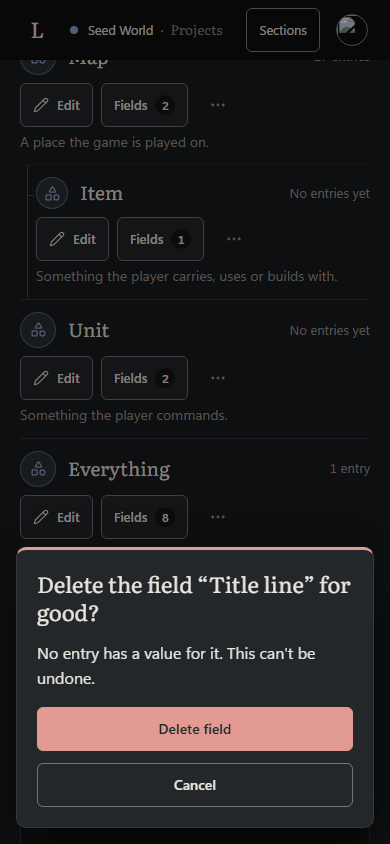
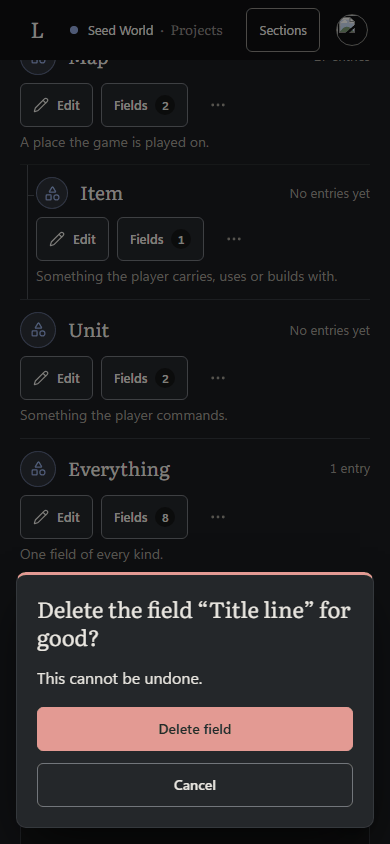
[DOCS] Evidence for the corrected project type and field delete confirms (#416)
Retook the after shots of x02-field: the project field confirm now reads
"This cannot be undone." x01-type after is unchanged (Item has no entries, so
the confirm still shows). README after descriptions and x02 phone pixel counts
updated.

Changed region(s): [[0.0308, 0.6469, 0.9846, 0.8318], [0.5846, 0.7701, 0.8, 0.8009]]

diff --git a/docs/design/evidence/416/README.md b/docs/design/evidence/416/README.md
@@ -230,8 +230,8 @@ Every differing pair was opened before next to after, at full size or as a 4x cr
 
 ### X, new delete confirm (14 states, 56 pairs)
 
-- `x01-type`: after: the confirm, destructive (X3 warning, "Move to Trash"); before: dev deleted at once, the aborted write then showed its failure message (desktop light 1295998 px, desktop dark 1295998 px, phone light 318942 px, phone dark 318997 px).
-- `x02-field`: after: the confirm, destructive (X3 warning, "Move to Trash"); before: dev deleted at once, the aborted write then showed its failure message (desktop light 1295998 px, desktop dark 1295998 px, phone light 329119 px, phone dark 329145 px).
+- `x01-type`: after: the confirm, destructive, "Delete the type “Item”?" with "No entry uses it. This cannot be undone." and a "Delete type" button (Item has no entries, so the confirm shows; a type with entries skips it and the API refuses); before: dev deleted at once, the aborted write then showed its failure message (desktop light 1295998 px, desktop dark 1295998 px, phone light 318942 px, phone dark 318997 px).
+- `x02-field`: after: the confirm, destructive, "Delete the field “Title line” for good?" with "This cannot be undone." and a "Delete field" button; before: dev deleted at once, the aborted write then showed its failure message (desktop light 1295998 px, desktop dark 1295998 px, phone light 329115 px, phone dark 329136 px).
 - `x03-move-to-trash`: after: the confirm, destructive (X3 warning, "Move to Trash"); before: dev deleted at once, the aborted write then showed its failure message (desktop light 1272698 px, desktop dark 1270196 px, phone light 316191 px, phone dark 315782 px).
 - `x04-season`: after: the confirm, destructive (X3 warning, "Move to Trash"); before: dev deleted at once, the aborted write then showed its failure message (desktop light 1295935 px, desktop dark 1295972 px, phone light 320822 px, phone dark 319337 px).
 - `x05-episode`: after: the confirm, destructive (X3 warning, "Move to Trash"); before: dev deleted at once, the aborted write then showed its failure message (desktop light 1295913 px, desktop dark 1295976 px, phone light 320822 px, phone dark 319338 px).
